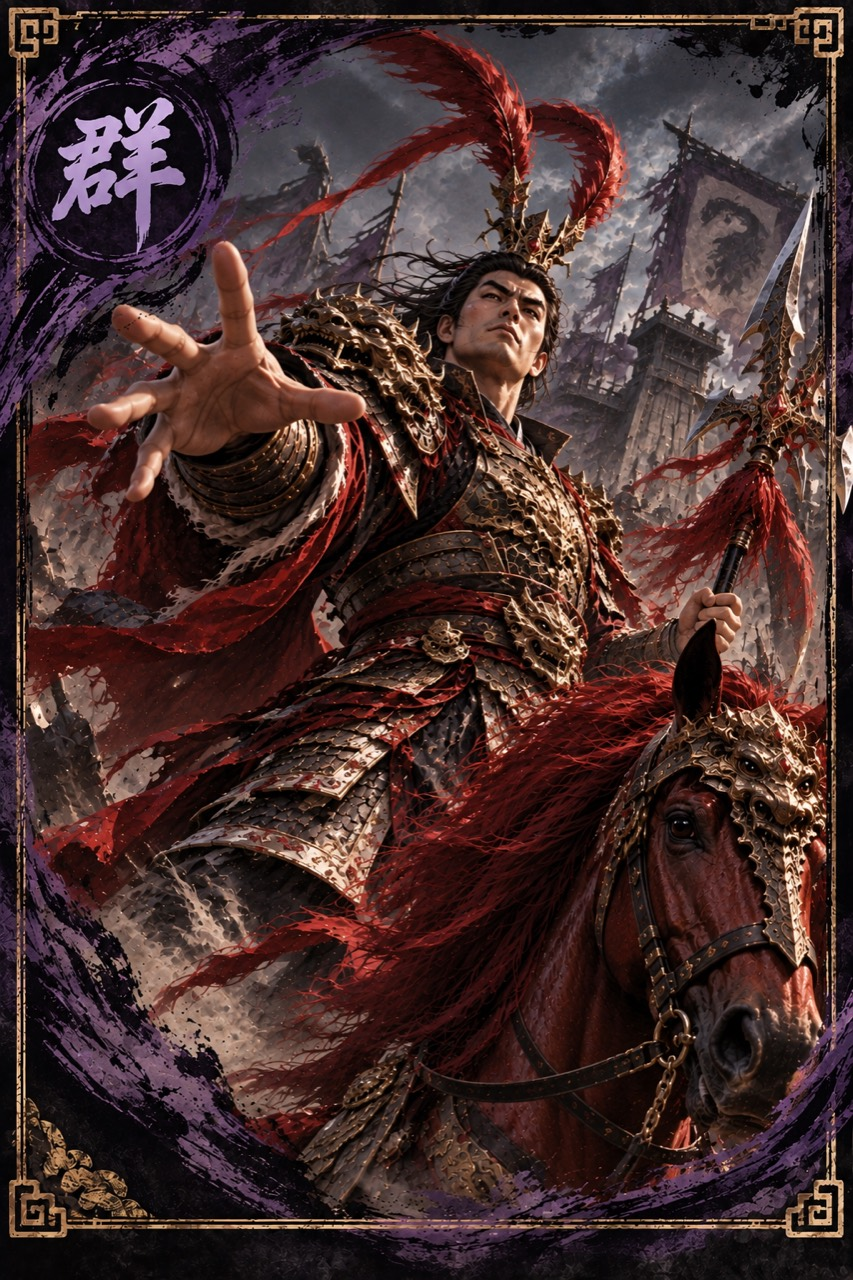
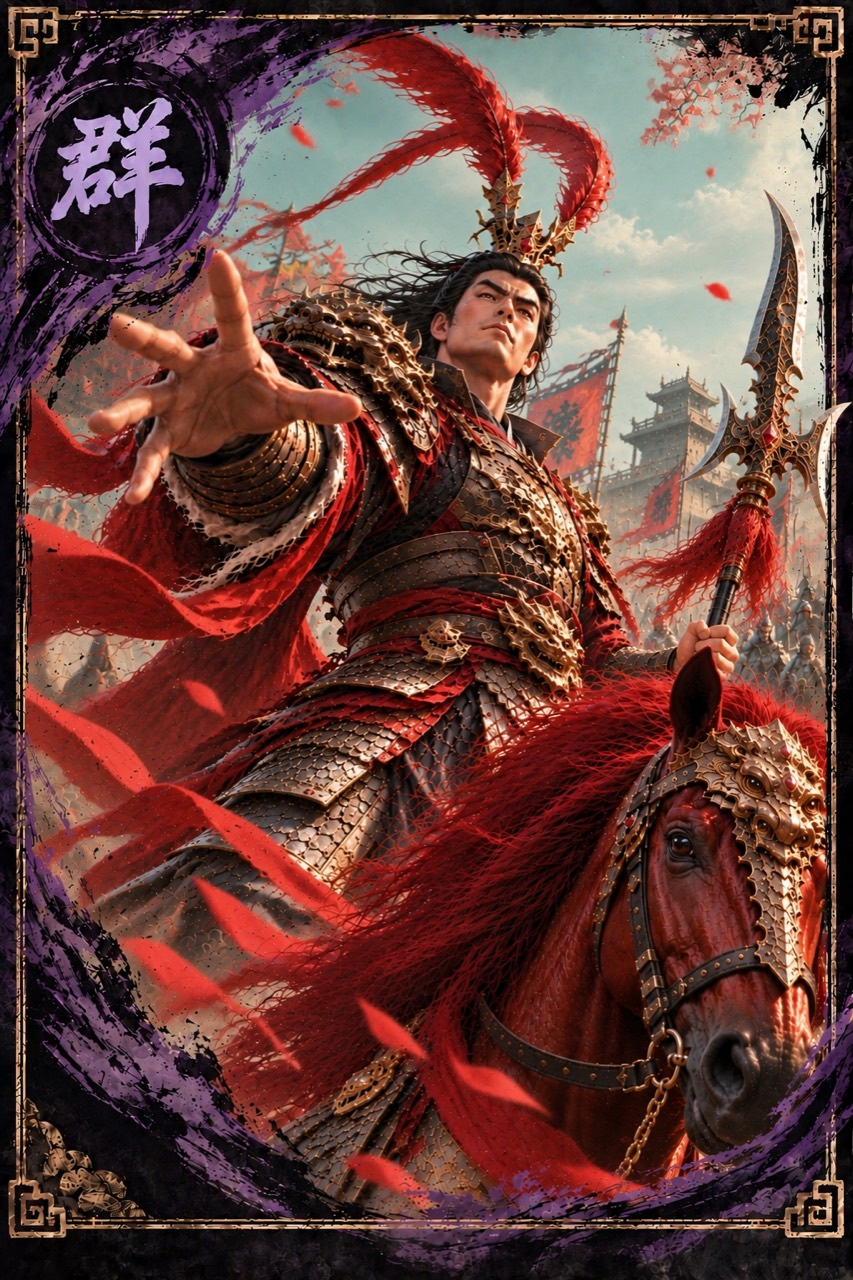
Update Hua Xiong Pan Feng Lu Bu and Diao Chan portraits

diff --git a/app/page.tsx b/app/page.tsx
@@ -48,6 +48,7 @@ export const HERO_ART_BY_ID: Record<string, string> = {
   "diao-chan": "/hero-diao-chan.jpg",
   "lü-bu": "/hero-lv-bu.jpg",
   "hua-tuo": "/hero-hua-tuo.jpg",
+  huaxiong: "/hero-hua-xiong.jpg",
   "sun-shangxiang": "/hero-sun-shangxiang.jpg",
   "lu-xun": "/hero-lu-xun.jpg",
   "pan-feng": "/hero-pan-feng.jpg",

diff --git a/README.md b/README.md
@@ -3,6 +3,17 @@ A web implementation of the **WTK Standard** ruleset, built around authoritative
 ## Hero artwork update — 2026-10-01
 
 Replaced the supplied portraits through the shared `HERO_ART_BY_ID` /
+`HeroPortrait` renderer: Photo 1 is Hua Xiong, Photo 2 is Pan Feng, Photo 3
+is Lü Bu, and Photo 4 is Diao Chan. Hua Xiong now also uses the shared portrait
+renderer instead of the initials fallback. The artwork applies in hero
+selection, locked-in selection, the local hero dock, and opponent cards.
+
+This is a presentation-only update: gameplay rules, projections, selection
+legality, layout dimensions, and semantic actions are unchanged.
+
+## Hero artwork update — 2026-10-01
+
+Replaced the supplied portraits through the shared `HERO_ART_BY_ID` /
 `HeroPortrait` renderer: Photo 1 is Cao Cao, Photo 2 is Xiahou Dun, and Photo
 3 is Sima Yi. The shared renderer applies the artwork in hero selection,
 locked-in selection, the local hero dock, and opponent cards.

diff --git a/HANDOVER.md b/HANDOVER.md
@@ -1,5 +1,21 @@
 # Three Kingdoms — current handover
 
+## Latest presentation update — Hua Xiong, Pan Feng, Lü Bu, and Diao Chan portraits — 2026-10-01
+
+Replaced the supplied portraits through the shared `HERO_ART_BY_ID` /
+`HeroPortrait` renderer:
+
+- Photo 1: Hua Xiong (`public/hero-hua-xiong.jpg`)
+- Photo 2: Pan Feng (`public/hero-pan-feng.jpg`)
+- Photo 3: Lü Bu (`public/hero-lv-bu.jpg`)
+- Photo 4: Diao Chan (`public/hero-diao-chan.jpg`)
+
+Hua Xiong now uses the shared portrait renderer rather than the intentional
+initials fallback. The shared path covers hero selection, the locked-in
+selection state, the local hero card, and opponent cards. This remains
+presentation-only: no gameplay rules, projections, selection legality, layout
+dimensions, or semantic actions changed.
+
 ## Latest presentation update — Cao Cao, Xiahou Dun, and Sima Yi portraits — 2026-10-01
 
 Replaced the supplied portraits through the shared `HERO_ART_BY_ID` /
